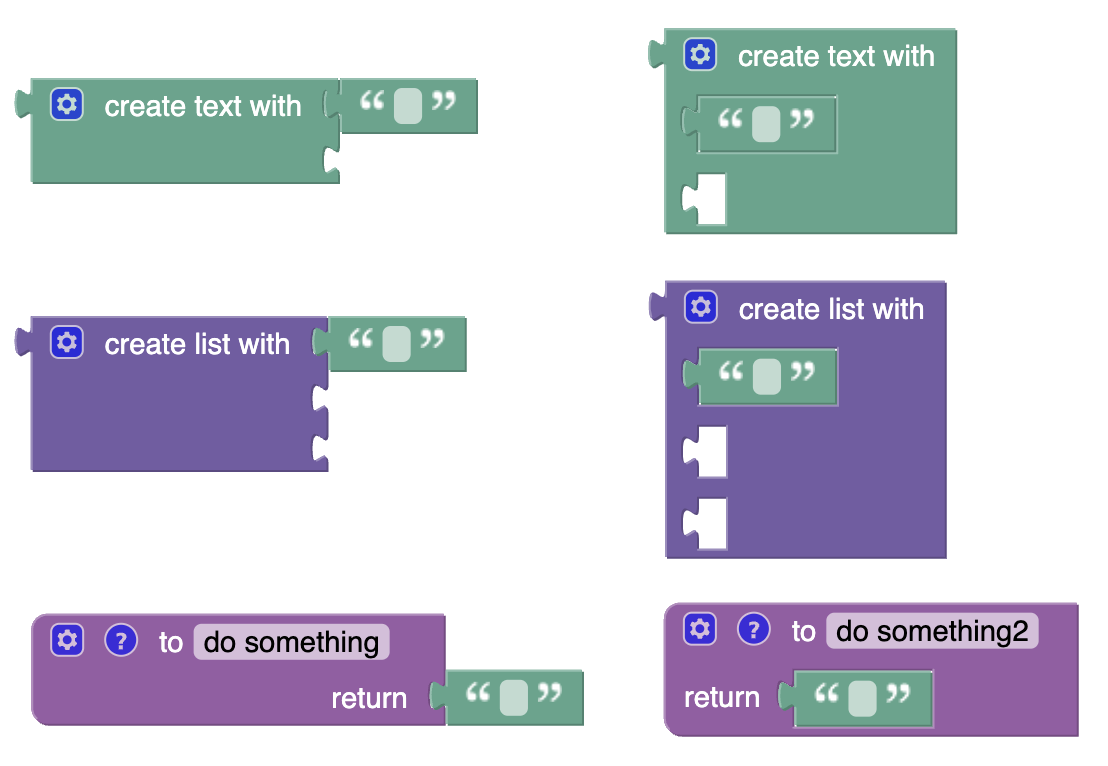
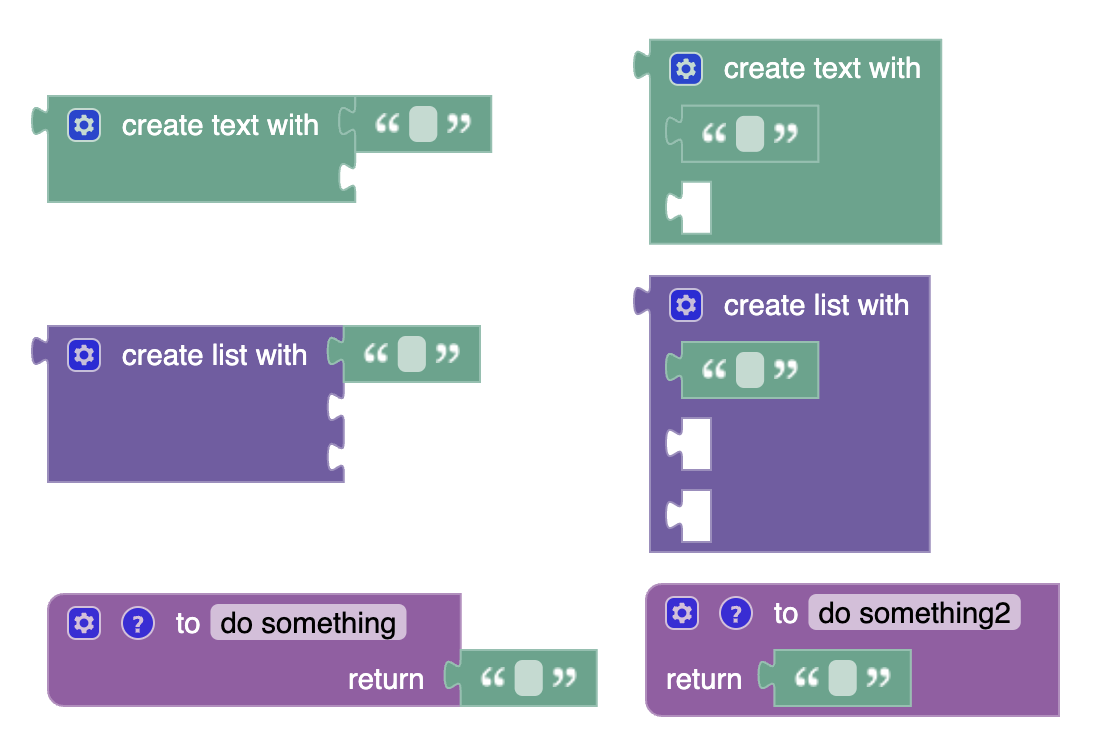
Address feedback on PR.

diff --git a/plugins/inline-row-separators/test/inline_row_separators_test.mocha.js b/plugins/inline-row-separators/test/inline_row_separators_test.mocha.js
@@ -8,7 +8,8 @@ require('../src/inline_row_separators_renderer');
 const chai = require('chai');
 const Blockly = require('blockly');
 const jsdomGlobal = require('jsdom-global');
-const {overrideOldBlockDefinitions} = require('../src/index');
+const {addInlineRowSeparators, overrideOldBlockDefinitions} =
+    require('../src/index');
 
 overrideOldBlockDefinitions();
 
@@ -19,29 +20,86 @@ suite('inlineRowSeparates', function() {
     this.jsdomCleanup =
         jsdomGlobal('<!DOCTYPE html><div id="blocklyDiv"></div>');
     this.workspace = Blockly.inject('blocklyDiv', {
-      renderer: 'inline-row-separators',
+      renderer: 'thrasos-inline-row-separators',
     });
     this.renderer = this.workspace.getRenderer();
+    Blockly.defineBlocksWithJsonArray([
+      {
+        'type': 'test_block',
+        'message0': 'input A %1 %2 input B %3',
+        'args0': [
+          {'type': 'input_value', 'name': 'A'},
+          {'type': 'input_dummy'},
+          {'type': 'input_value', 'name': 'B'},
+        ],
+        'inputsInline': true,
+      },
+    ]);
   });
 
   teardown(function() {
+    delete Blockly.Blocks['test_block'];
     this.workspace.dispose();
     this.jsdomCleanup();
   });
 
-  test('a text join block should start new rows for value inputs', function() {
-    const block = this.workspace.newBlock('text_join');
+  test('shouldStartNewRow_ returns true if last input is a dummy', function() {
+    const block = this.workspace.newBlock('test_block');
+    const renderInfo = this.renderer.makeRenderInfo_(block);
+    // Test that a dummy after a value still remains on one row.
+    assert.isFalse(
+        renderInfo.shouldStartNewRow_(block.inputList[1], block.inputList[0]));
+    // Test that a value after a dummy is put on a new row.
+    assert.isTrue(
+        renderInfo.shouldStartNewRow_(block.inputList[2], block.inputList[1]));
+  });
+
+  test('inline_text_join is inline and inserts dummies', function() {
+    const block = this.workspace.newBlock('inline_text_join');
+    assert.isTrue(block.inputList[0].type === Blockly.inputTypes.DUMMY);
+    assert.isTrue(block.inputList[1].type === Blockly.inputTypes.VALUE);
+    assert.isTrue(block.inputList[2].type === Blockly.inputTypes.DUMMY);
+    assert.isTrue(block.inputList[3].type === Blockly.inputTypes.VALUE);
     const renderInfo = this.renderer.makeRenderInfo_(block);
     assert.isTrue(renderInfo.isInline);
+  });
+
+  test('inline_lists_create_with is inline and inserts dummies', function() {
+    const block = this.workspace.newBlock('inline_lists_create_with');
     assert.isTrue(block.inputList[0].type === Blockly.inputTypes.DUMMY);
-    assert.isTrue(
-        renderInfo.shouldStartNewRow_(block.inputList[1], block.inputList[0]));
     assert.isTrue(block.inputList[1].type === Blockly.inputTypes.VALUE);
-    assert.isFalse(
-        renderInfo.shouldStartNewRow_(block.inputList[2], block.inputList[1]));
     assert.isTrue(block.inputList[2].type === Blockly.inputTypes.DUMMY);
-    assert.isTrue(
-        renderInfo.shouldStartNewRow_(block.inputList[3], block.inputList[2]));
     assert.isTrue(block.inputList[3].type === Blockly.inputTypes.VALUE);
+    assert.isTrue(block.inputList[4].type === Blockly.inputTypes.DUMMY);
+    assert.isTrue(block.inputList[5].type === Blockly.inputTypes.VALUE);
+    const renderInfo = this.renderer.makeRenderInfo_(block);
+    assert.isTrue(renderInfo.isInline);
+  });
+
+  test('inline_procedures_defreturn is inline', function() {
+    const block = this.workspace.newBlock('inline_procedures_defreturn');
+    const renderInfo = this.renderer.makeRenderInfo_(block);
+    assert.isTrue(renderInfo.isInline);
+  });
+
+  test('overrideOldBlockDefinitions replaces blocks', function() {
+    Blockly.Blocks['text_join'] === Blockly.Blocks['inline_text_join'];
+    Blockly.Blocks['lists_create_with'] ===
+        Blockly.Blocks['inline_lists_create_with'];
+    Blockly.Blocks['procedures_defreturn'] ===
+        Blockly.Blocks['inline_procedures_defreturn'];
+  });
+
+  test('addInlineRowSeparators adds row separators to renderer', function() {
+    const Renderer = addInlineRowSeparators(
+        Blockly.zelos.Renderer, Blockly.zelos.RenderInfo);
+    const block = this.workspace.newBlock('test_block');
+    const renderer = new Renderer('test_renderer');
+    renderer.init(this.workspace.getTheme());
+    const renderInfo = renderer.makeRenderInfo_(block);
+    assert.isFalse(
+        renderInfo.shouldStartNewRow_(block.inputList[1], block.inputList[0]));
+    assert.isTrue(
+        renderInfo.shouldStartNewRow_(block.inputList[2], block.inputList[1]));
   });
 });

diff --git a/plugins/inline-row-separators/src/inline_row_separators_renderer.ts b/plugins/inline-row-separators/src/inline_row_separators_renderer.ts
@@ -10,45 +10,72 @@
 
 import * as Blockly from 'blockly/core';
 
+/* eslint-disable @typescript-eslint/no-explicit-any */
+type RendererConstructor = new (...args: any[]) =>
+    Blockly.blockRendering.Renderer;
+type RenderInfoConstructor = new (...args: any[]) =>
+    Blockly.blockRendering.RenderInfo;
+/* eslint-enable @typescript-eslint/no-explicit-any */
+
 /**
- * A subclass of the geras RenderInfo that renders all dummy inputs like line
- * breaks, forcing any following input to be rendered on a separate row, even
- * when the block type definition has `"inputsInline": true`.
+ * This function creates a new Blockly Renderer that is based on the provided
+ * Renderer but it always enforces that any input connector following a dummy
+ * input will be rendered on a new row.
+ *
+ * @param rendererBase A class extending Blockly.blockRendering.Renderer that
+ *     the new renderer will be derived from.
+ * @param renderInfoBase A class extending Blockly.blockRendering.RenderInfo
+ *     that should be compatible with the provided rendererBase.
+ * @return The new renderer class. It's up to you to register it with Blockly.
  */
-export class RenderInfo extends Blockly.geras.RenderInfo {
-  /* eslint-disable @typescript-eslint/naming-convention */
+export function addInlineRowSeparators<
+    RendererBase extends RendererConstructor,
+    RenderInfoBase extends RenderInfoConstructor>(
+    rendererBase: RendererBase,
+    renderInfoBase: RenderInfoBase): RendererBase {
   /**
-   * Decide whether to start a new row between the two Blockly.Inputs.
-   *
-   * @param input The first input to consider
-   * @param lastInput The input that follows.
-   * @return True if the next input should be rendered on a new row.
+   * A subclass of the provided RenderInfo that renders all dummy inputs like
+   * line breaks, forcing any following input to be rendered on a separate row,
+   * even when the block type definition has `"inputsInline": true`.
    */
-  protected shouldStartNewRow_(
-      input: Blockly.Input, lastInput?: Blockly.Input): boolean {
-    /* eslint-enable @typescript-eslint/naming-convention */
-    if (lastInput?.type === Blockly.inputTypes.DUMMY) {
-      return true;
+  class RenderInfo extends renderInfoBase {
+    /* eslint-disable @typescript-eslint/naming-convention */
+    /**
+     * Decide whether to start a new row between the two Blockly.Inputs.
+     *
+     * @param input The first input to consider
+     * @param lastInput The input that follows.
+     * @return True if the next input should be rendered on a new row.
+     */
+    protected shouldStartNewRow_(
+        input: Blockly.Input, lastInput?: Blockly.Input): boolean {
+      /* eslint-enable @typescript-eslint/naming-convention */
+      if (lastInput?.type === Blockly.inputTypes.DUMMY) {
+        return true;
+      }
+      return super.shouldStartNewRow_(input, lastInput);
     }
-    return super.shouldStartNewRow_(input, lastInput);
   }
-}
 
-/**
- * A subclass of the geras Renderer that provides the custom RenderInfo object.
- */
-export class Renderer extends Blockly.geras.Renderer {
-  /* eslint-disable @typescript-eslint/naming-convention */
   /**
-   * Create a new instance of the renderer's render info object.
-   *
-   * @param block The block to measure.
-   * @return The render info object.
+   * A subclass of the provided Renderer that uses the new RenderInfo object.
    */
-  protected makeRenderInfo_(block: Blockly.BlockSvg): RenderInfo {
-    /* eslint-enable @typescript-eslint/naming-convention */
-    return new RenderInfo(this, block);
-  }
+  return class Renderer extends rendererBase {
+    /* eslint-disable @typescript-eslint/naming-convention */
+    /**
+     * Create a new instance of the renderer's render info object.
+     *
+     * @param block The block to measure.
+     * @return The render info object.
+     */
+    protected makeRenderInfo_(block: Blockly.BlockSvg): RenderInfo {
+      /* eslint-enable @typescript-eslint/naming-convention */
+      return new RenderInfo(this, block);
+    }
+  };
 }
 
-Blockly.blockRendering.register('inline-row-separators', Renderer);
+export const Renderer = addInlineRowSeparators(
+    Blockly.thrasos.Renderer, Blockly.thrasos.RenderInfo);
+
+Blockly.blockRendering.register('thrasos-inline-row-separators', Renderer);

diff --git a/plugins/inline-row-separators/src/inline_text_join.ts b/plugins/inline-row-separators/src/inline_text_join.ts
@@ -23,7 +23,7 @@ declare interface TextJoinBlock extends Blockly.Block {
 // Define a new block that is like the built-in block, but with an extension
 // that enables inline input mode and overrides the updateShape_ method to
 // insert dummy inputs between value inputs.
-Blockly.common.defineBlocksWithJsonArray([
+Blockly.defineBlocksWithJsonArray([
   {
     'type': 'inline_text_join',
     'message0': '',
@@ -66,7 +66,7 @@ const inlineTextJoinExtension = function(this: TextJoinBlock) {
         if (i === 0) {
           dummy.appendField(Blockly.Msg['TEXT_JOIN_TITLE_CREATEWITH']);
         }
-        this.appendValueInput('ADD' + i).setAlign(Blockly.Input.Align.RIGHT);
+        this.appendValueInput('ADD' + i).setAlign(Blockly.Input.Align.LEFT);
       }
     }
 

diff --git a/plugins/inline-row-separators/src/index.ts b/plugins/inline-row-separators/src/index.ts
@@ -5,10 +5,12 @@
  */
 
 import * as Blockly from 'blockly/core';
-import './inline_row_separators_renderer';
+import {addInlineRowSeparators} from './inline_row_separators_renderer';
 import './inline_text_join';
 import './inline_lists_create_with';
 import './inline_procedures_defreturn';
+
+export {addInlineRowSeparators};
 
 /**
  * Replaces the built-in block definitions for "text_join",

diff --git a/plugins/inline-row-separators/test/index.ts b/plugins/inline-row-separators/test/index.ts
@@ -103,7 +103,7 @@ function createWorkspace(blocklyDiv: HTMLElement,
 document.addEventListener('DOMContentLoaded', function() {
   const defaultOptions: Blockly.BlocklyOptions = {
     toolbox,
-    renderer: 'inline-row-separators',
+    renderer: 'thrasos-inline-row-separators',
   };
   const rootElement = document.getElementById('root');
   if (rootElement) {

diff --git a/plugins/inline-row-separators/src/inline_lists_create_with.ts b/plugins/inline-row-separators/src/inline_lists_create_with.ts
@@ -50,7 +50,7 @@ Blockly.Blocks['inline_lists_create_with'] = Object.assign(
               dummy.appendField(Blockly.Msg['LISTS_CREATE_WITH_INPUT_WITH']);
             }
             this.appendValueInput('ADD' + i).setAlign(
-                Blockly.Input.Align.RIGHT);
+                Blockly.Input.Align.LEFT);
           }
         }
 

diff --git a/plugins/inline-row-separators/src/inline_procedures_defreturn.ts b/plugins/inline-row-separators/src/inline_procedures_defreturn.ts
@@ -21,6 +21,7 @@ Blockly.Blocks['inline_procedures_defreturn'] = Object.assign(
       init: function(this: Blockly.Block) {
         builtInProcedureBlock.init.apply(this);
         this.inputsInline = true;
+        this.getInput('RETURN')?.setAlign(Blockly.Input.Align.LEFT);
       },
     }
 );

diff --git a/plugins/inline-row-separators/test/index.html b/plugins/inline-row-separators/test/index.html
@@ -3,7 +3,7 @@
 
 <head>
   <meta charset="utf-8">
-  <title>Inline Row Separators Converter Playground</title>
+  <title>Inline Row Separators Playground</title>
   <style>
     html, body {
       margin: 0;

diff --git a/plugins/inline-row-separators/README.md b/plugins/inline-row-separators/README.md
@@ -1,35 +1,35 @@
-# @blockly/input-row-separators [![Built on Blockly](https://tinyurl.com/built-on-blockly)](https://github.com/google/blockly)
+# @blockly/renderer-inline-row-separators [![Built on Blockly](https://tinyurl.com/built-on-blockly)](https://github.com/google/blockly)
 
-A [Blockly](https://www.npmjs.com/package/blockly) plugin providing a renderer that treats dummy inputs like row separators, allowing block designers to arrange multiple inline value input connectors on separate rows by inserting dummy inputs between them. Example blocks are provided.
+A [Blockly](https://www.npmjs.com/package/blockly) plugin to create a renderer that treats dummy inputs like row separators, allowing block designers to arrange multiple inline value input connectors on separate rows by inserting dummy inputs between them. Example blocks are provided.
 
 ## Installation
 
 ### Yarn
 ```
-yarn add @blockly/inline-row-separators
+yarn add @blockly/renderer-inline-row-separators
 ```
 
 ### npm
 ```
-npm install @blockly/inline-row-separators --save
+npm install @blockly/renderer-inline-row-separators --save
 ```
 
 ## Usage
-This plugin registers a renderer called `"inline-row-separators"`. To use it, install the plugin, import it (with side effects), then refer to the new renderer in your workspace options:
+This plugin registers a renderer called `"thrasos-inline-row-separators"`. To use it, install the plugin, import it (with side effects), then refer to the new renderer in your workspace options:
 
 ```js
 import * as Blockly from 'blockly';
-import '@blockly/inline-row-separators'; // import with side effects.
+import '@blockly/renderer-inline-row-separators'; // import with side effects.
 
 function start() {
   const workspace = Blockly.inject('blocklyDiv', {
     toolbox: toolbox,
-    renderer: 'inline-row-separators',
+    renderer: 'thrasos-inline-row-separators',
   });
 }
 ```
 
-Initially, not much will be different. However, if you define any block types that insert a dummy input between two inline value inputs, the inline value input connectors will now be rendered on separate lines:
+Initially, not much will be different. However, if you define any block types that insert a dummy input between two inline value inputs, the inline value input connectors will be rendered on separate lines:
 
 ```js
 Blockly.common.defineBlocksWithJsonArray([
@@ -48,18 +48,25 @@ Blockly.common.defineBlocksWithJsonArray([
 
 ![A Blockly block demonstrating inline value input connectors on separate rows.](readme-media/inline_row_example_screenshot.png)
 
-This plugin also defines some alternative versions of built-in Blockly blocks that demonstrate the feature: `"inline_text_join"`, `"inline_lists_create_with"`, and `"inline_procedures_defreturn"`. You can replace the built-in blocks `"text_join"`, `"lists_create_with"`, and `"procedures_defreturn"` with these alternatives (which allows you to use Blockly's built-in code generators with these new block types) by importing and calling `overrideOldBlockDefinitions()`:
+This plugin also exports a function called `addInlineRowSeparators` that you can use to add the same inline row separator feature to any class extending Blockly's Renderer, including your own. 
 
 ```js
 import * as Blockly from 'blockly';
-import {overrideOldBlockDefinitions} from '@blockly/inline-row-separators';
+import {addInlineRowSeparators} from '@blockly/renderer-inline-row-separators';
+
+const NewRenderer = addInlineRowSeparators(YourRenderer, YourRenderInfo);
+Blockly.blockRendering.register('new-renderer', NewRenderer);
+```
+
+This plugin also defines some alternative versions of built-in Blockly blocks that demonstrate the feature: `"inline_text_join"`, `"inline_lists_create_with"`, and `"inline_procedures_defreturn"`. You can replace the built-in blocks `"text_join"`, `"lists_create_with"`, and `"procedures_defreturn"` with these alternatives (which allows you to use Blockly's built-in code generators with the inline version of these blocks) by importing and calling `overrideOldBlockDefinitions()`:
+
+```js
+import {overrideOldBlockDefinitions} from '@blockly/renderer-inline-row-separators';
 
 overrideOldBlockDefinitions();
 ```
 
 ![A Blockly workspace showing blocks with inline value input connectors on separate rows.](readme-media/inline_row_separators_screenshot.png)
-
-The new renderer is based on Blockly's default `"geras"` renderer, but could easily be adapted to other renderers.
 
 ## License
 
